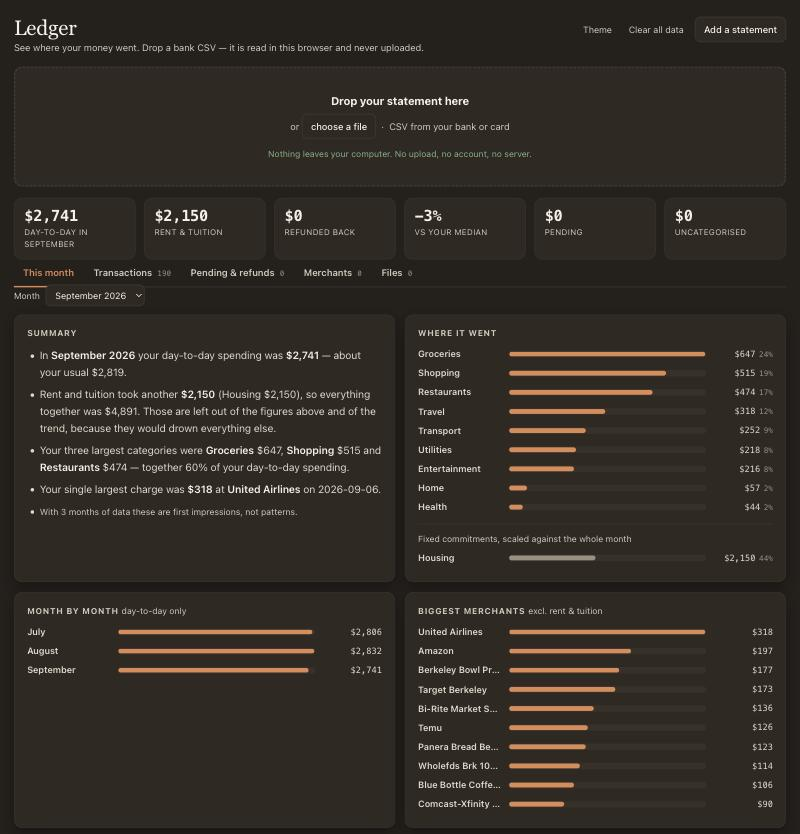
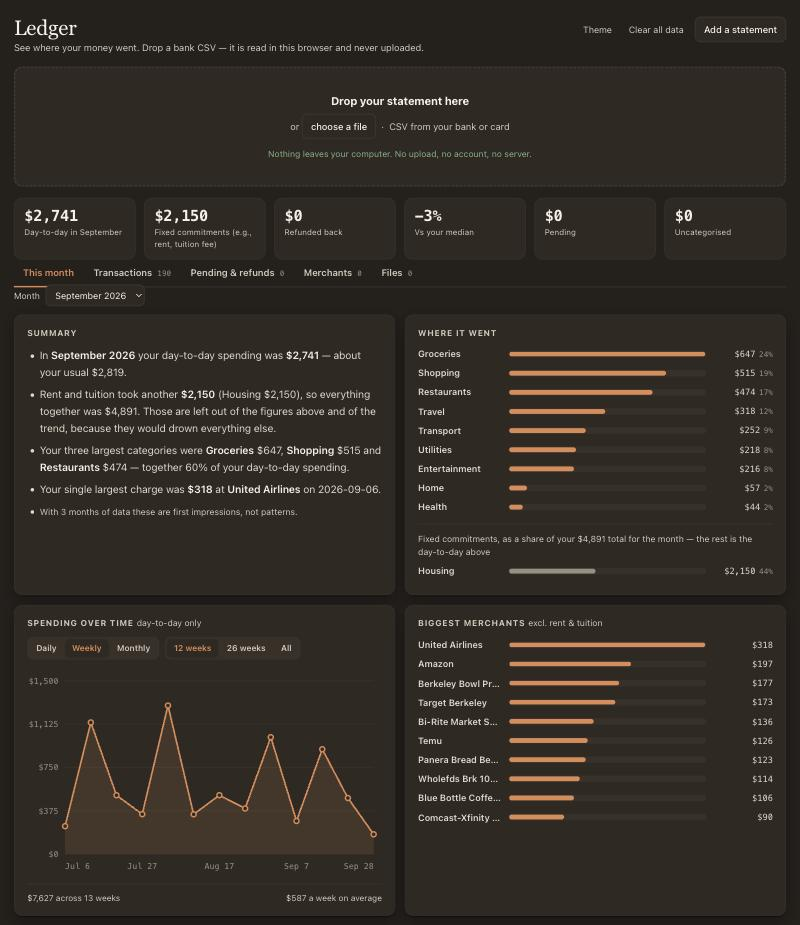
Move the dashboard shot below the privacy claim and recapture it with the line chart

diff --git a/public/tinkering/ledger.html b/public/tinkering/ledger.html
@@ -40,15 +40,6 @@
       <span class="btn-plain" style="border:0;cursor:default">Your file stays in your browser</span>
     </div>
 
-    <figure class="shot">
-      <img class="shot-light" src="/tinkering/img/ledger-light.png" alt="The Ledger dashboard: headline figures, a written summary, a category breakdown, a month-by-month trend and the biggest merchants.">
-      <img class="shot-dark"  src="/tinkering/img/ledger-dark.png"  alt="The Ledger dashboard: headline figures, a written summary, a category breakdown, a month-by-month trend and the biggest merchants.">
-      <figcaption>
-        Three months of statements, read in the browser. Every name and number
-        here is made up — this is demo data, not mine.
-      </figcaption>
-    </figure>
-
     <h2>The problem</h2>
     <p>
       I could see every transaction and still not answer a simple question: what
@@ -73,6 +64,16 @@
       it stay empty. That is checkable, which is the only kind of privacy claim
       worth making.
     </p>
+
+    <figure class="shot">
+      <img class="shot-light" src="/tinkering/img/ledger-light.png" alt="The Ledger dashboard: headline figures, a written summary, a category breakdown, a month-by-month trend and the biggest merchants.">
+      <img class="shot-dark"  src="/tinkering/img/ledger-dark.png"  alt="The Ledger dashboard: headline figures, a written summary, a category breakdown, a month-by-month trend and the biggest merchants.">
+      <figcaption>
+        What comes out the other side: three months of statements, read in the
+        browser and never sent anywhere. Every name and number here is made up —
+        this is demo data, not mine.
+      </figcaption>
+    </figure>
 
     <h2>What I learned along the way</h2>
     <p>
